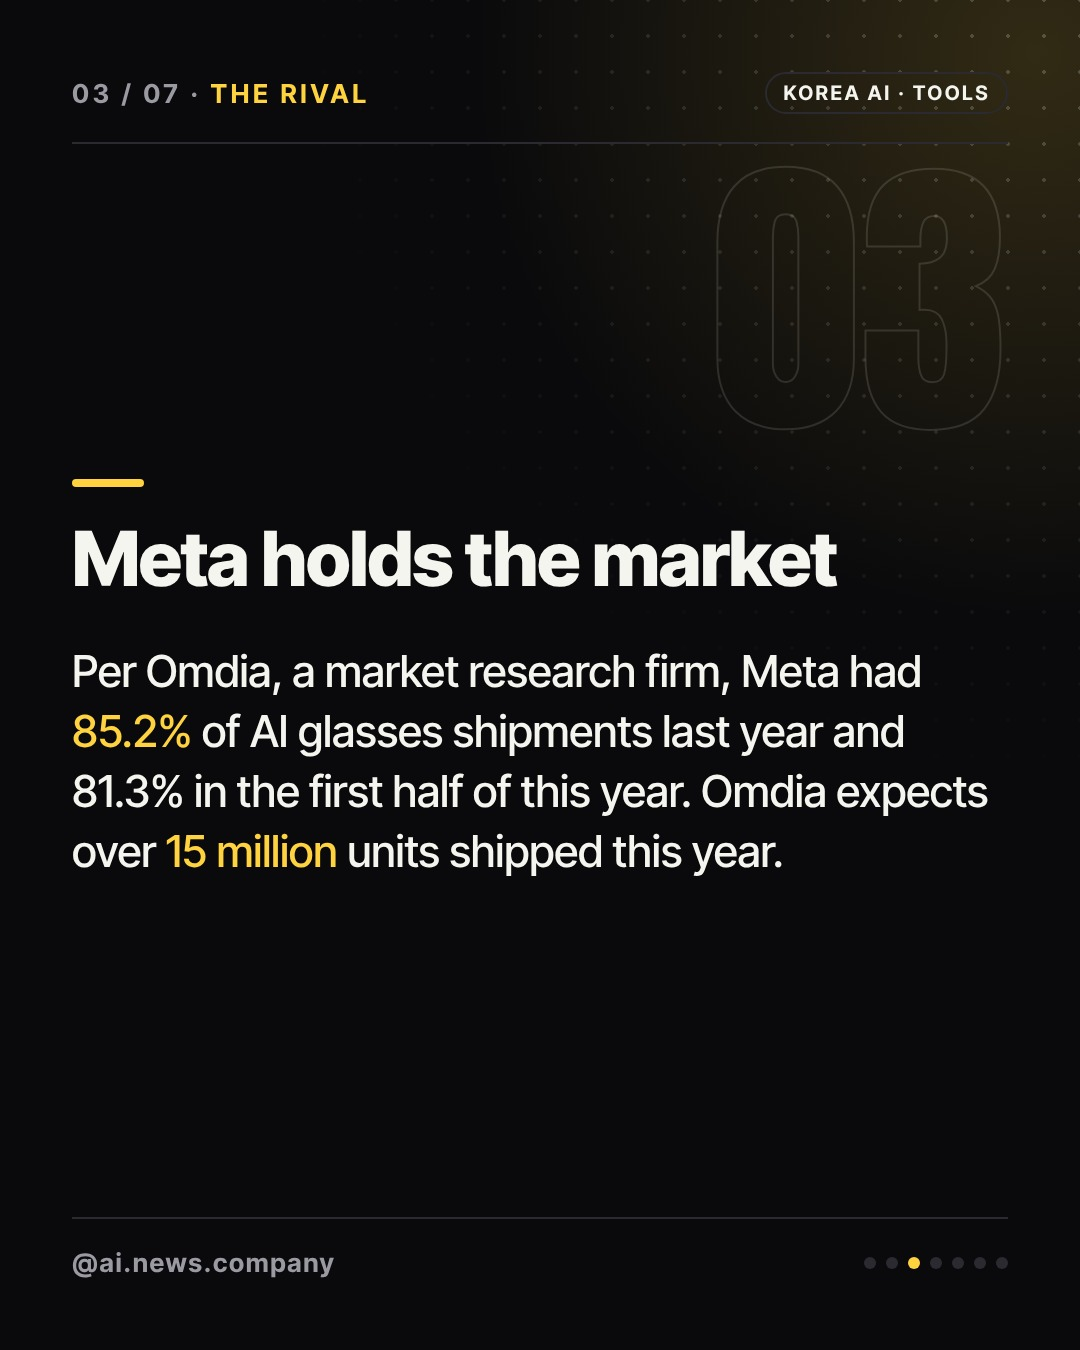
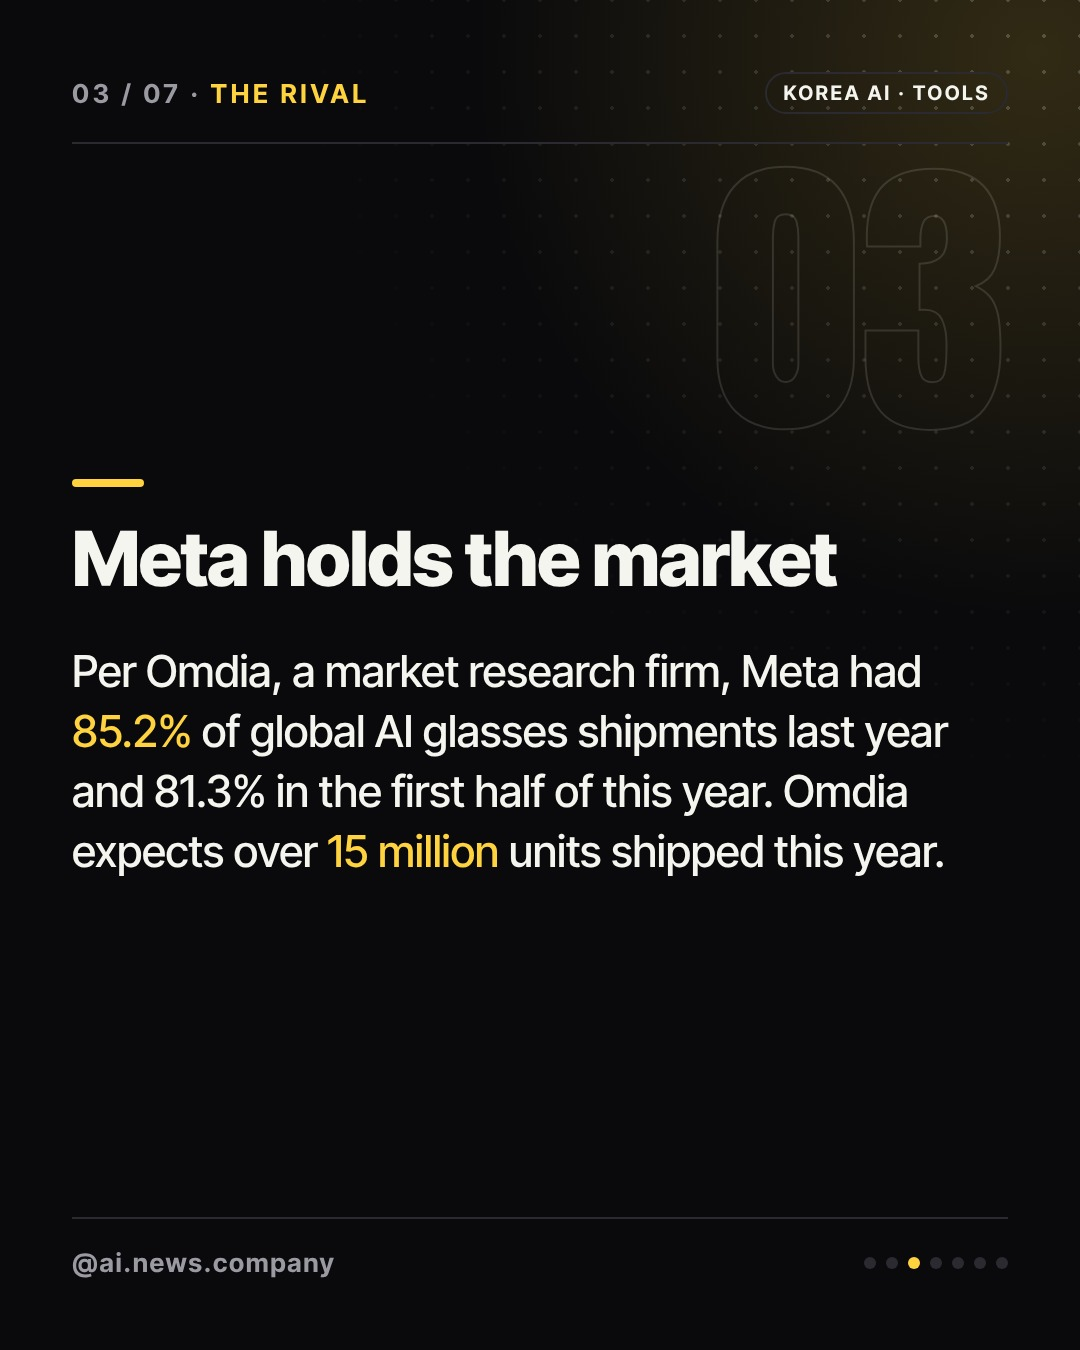
post: 2026-11-13 Google and Samsung AI glasses (ready) + morning report
Claude-Session: https://claude.ai/code/session_01HGJzPMLdVxnW84LRt44Vg6

Changed region(s): [[0.0611, 0.5289, 0.9167, 0.6533]]

diff --git a/posts/2026-11-13-google-samsung-gemini-glasses/review-fact.md b/posts/2026-11-13-google-samsung-gemini-glasses/review-fact.md
@@ -1,9 +1,8 @@
-FAIL
+PASS
 
-Source opened with scripts/article.mjs (AI타임스, published 2026-11-12). Title matches; title_en is faithful.
+Round 2 fact check against AI타임스 (idxno=217346), opened with scripts/article.mjs.
 
-Issue 1 (caption, line 2): "so this is the first big challenge" is not in the article and is overstated. The article only says Google and Samsung joined a market Meta had taken first and "competition is expected". Fix: "Meta holds most of the AI glasses market, per Omdia, a market research firm, and Google and Samsung are now entering it."
-
-Minor (optional): slide 2 and threads_caption say "AI glasses shipments"; the article says global AI smart glasses shipments, so "global" could be added. Pre-orders "Nov 12" is the article's 12th, local (US) time, which is fine.
-
-Everything else matches the article: Dec 10 launch, Gentle Monster in Korea and the US, Warby Parker US only, no AR display, Galaxy and iPhone compatibility, 12MP, about 41 g, 9 hours, $449 (about 600,000 won), $395 (about 530,000 won), face blurring, indicator light, physical switch, Omdia 85.2%, 81.3%, over 15 million. The "Korean/US eyewear brand" descriptors are plain background.
+- Cover, hook options, slides 1-5, caption, threads_caption: all names, numbers and dates match the article (Dec 10, Nov 12, 85.2%, 81.3%, 15M+, 12MP, ~41 g, 9 h, $449 / $395 with ~600,000 / ~530,000 won, face blur, indicator light, physical switch).
+- Round 1 issue resolved: the caption now says "Google and Samsung are now entering it", with no "first big challenge" line. Slide 2 "global" matches the article ("세계 ... 시장 점유율").
+- Source title and title_en are faithful. Date Nov 12, 2026 matches the published date.
+- Gentle Monster and Warby Parker descriptions are plain background, with no unsupported numbers.

diff --git a/ops/run-log.md b/ops/run-log.md
@@ -2,6 +2,19 @@
 
 Newest first. Format is in CLAUDE.md ("보고").
 
+## [아침 보고] 2026-11-13
+처리 1건 (ready 1) · 실패 0건
+성과: 어제 도달 25 · 팔로워 2 · 링크 클릭 0 · 최고 도달 2026-11-07-ai-teddy-bbc (44, 최근 14일 기준)
+결정할 일
+1. 없음. 아침 스캔은 05:07에 안 돌아 morning-scan을 수동 실행했고 약 2분 뒤 main에 올라옴. 참고 계정은 IG 토큰이 없어(IG_USER_ID 미설정) 스캔 파일 reference.json 기준으로만 주제 파악
+2. 선정: Google·Samsung Gemini AI 안경 사전 주문, 12월 10일 출시, Meta와 정면 대결 (KOREA AI · TOOLS, 점수 8). 소스는 AI타임스 1개(번역은 researcher). 카테고리는 lint가 DEVICES를 허용하지 않아 TOOLS 사용
+3. 검수: fact 1차 불합격(캡션 "first big challenge"는 원문에 없음) → 수정 후 2차 통과. hook 7/10 통과(독자 영향 훅 없음 사유 기재), brand-safety 통과
+4. 커버: Higgsfield cinematic_studio_2_5 1장, 2크레딧 (오늘 합계 2/6). 사람·글자·로고 없음. designer 서브에이전트에 Higgsfield 도구가 없어 내가 직접 생성
+5. Jensen Huang 사임 보도(오늘 최대 뉴스)와 그에 딸린 GPU 규제 기사는 입증 안 된 실명 사생활 의혹 기반이라 제외 (11-12와 같은 기준). 저녁 런 예비: posts/_backlog/2026-11-13-spacex-74b-ai-campuses.md (Gemini 4 Hydrogen은 같은 Google이라 저녁엔 부적합)
+자세한 기록
+- 후보 8개, 선정 id `2026-11-13-google-samsung-gemini-glasses`
+- 푸시는 세션 지정 브랜치가 아닌 daily/2026-11-13
+
 ## [저녁 보고] 2026-11-12
 처리 1건 (ready 1) · 실패 0건
 결정할 일
